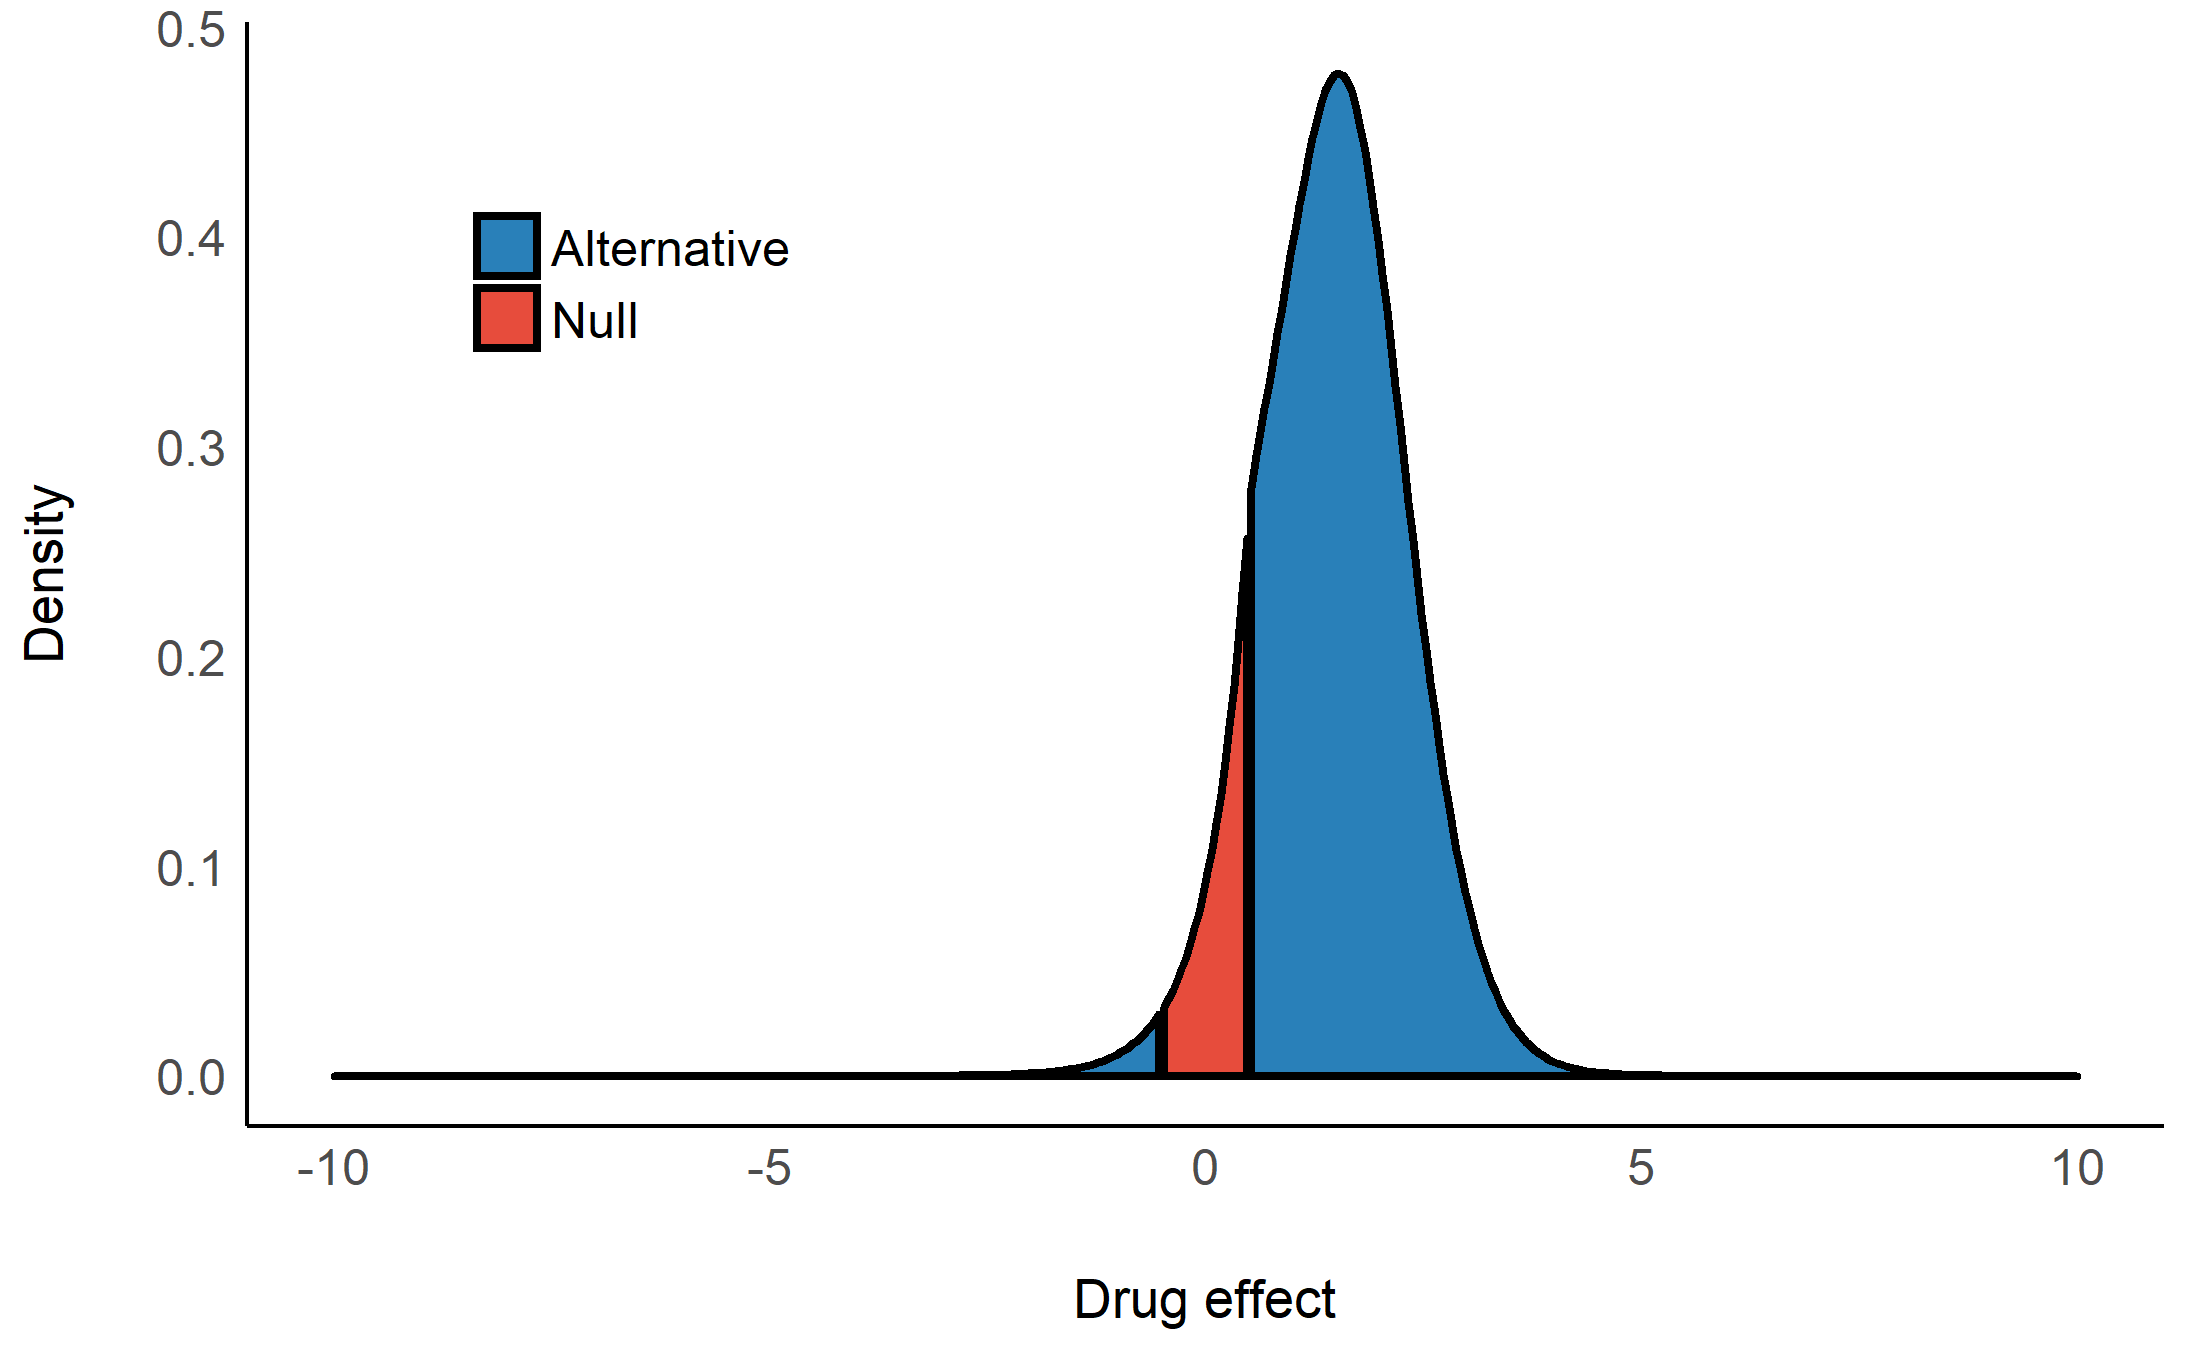
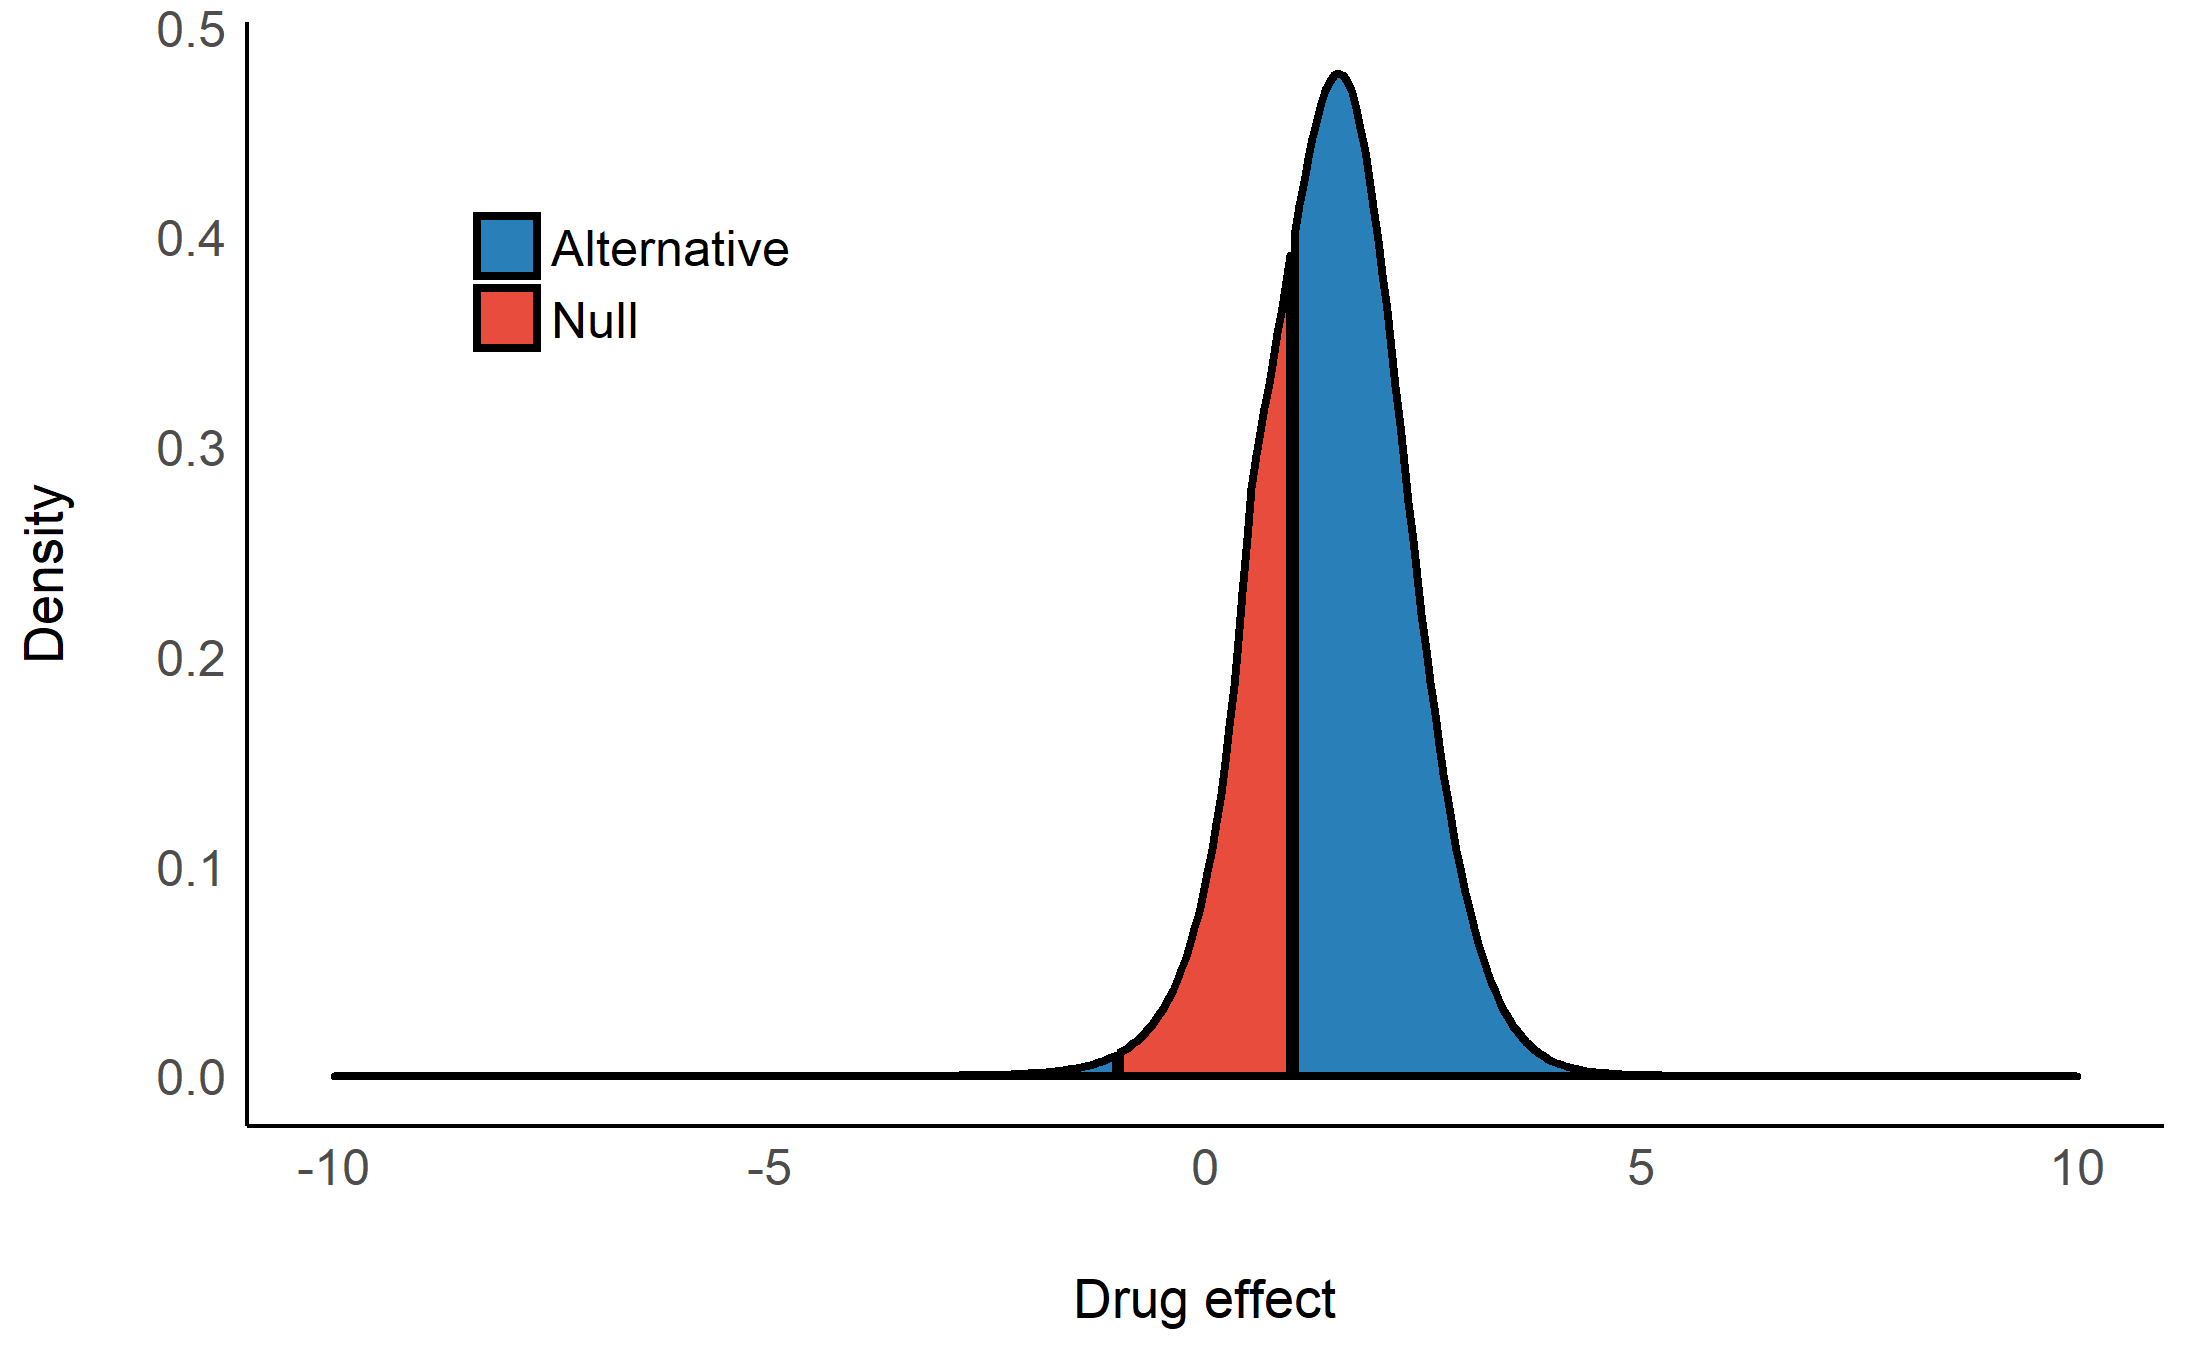
fix plot

Changed region(s): [[0.5286, 0.2176, 0.6219, 0.8083], [0.4975, 0.7772, 0.5286, 0.8083]]

diff --git a/docs/articles/bayes_factors.html b/docs/articles/bayes_factors.html
@@ -205,7 +205,7 @@ Bayesian analysis of the Students’ (1908) Sleep data set.
 \]</span></p>
 <p>Given our prior has a normal distribution centered at 0 hours with a scale (an SD) of 2.5 hours, our priors would look like this:</p>
 <p><img src="bayes_factors_files/figure-html/unnamed-chunk-2-1.png" width="1093.75"></p>
-<p>and the prior odds would be 5.3.</p>
+<p>and the prior odds would be 2.2.</p>
 <p>By looking at the posterior distribution, can now compute the posterior probability of the drug’s effect falling <em>within the null-region</em>, and the posterior probability of the drug’s effect falling <em>outside the null-region</em> to get our <em>posterior odds</em>:</p>
 <p><span class="math display">\[
 \frac
@@ -213,7 +213,7 @@ Bayesian analysis of the Students’ (1908) Sleep data set.
 {P(b_{drug} \notin [-1,1] | Data)}
 \]</span></p>
 <p><img src="bayes_factors_files/figure-html/rstanarm_fit-1.png" width="1093.75"></p>
-<p>We can see that the center of the posterior distribution has shifted away from 0 (to ~1.5). Likewise, the posterior odds are 4.8 - which seems to favor <strong>the effect being non-null</strong>, but… <em>does this mean the data support the alternative over the null?</em> Hard to say, since even before the data were observed, the priors already favored the alternative - so we need to take our priors into account here!</p>
+<p>We can see that the center of the posterior distribution has shifted away from 0 (to ~1.5). Likewise, the posterior odds are 2.0 - which seems to favor <strong>the effect being non-null</strong>, but… <em>does this mean the data support the alternative over the null?</em> Hard to say, since even before the data were observed, the priors already favored the alternative - so we need to take our priors into account here!</p>
 <p>Let’s compute the Bayes factor as the change from the prior odds to the posterior odds: <span class="math inline">\(BF_{10} = Odds_{posterior} / Odds_{prior} = 0.90\)</span>! This BF indicates that the data provide 1/0.90 = 1.11 times more evidence for the effect of the drug being practically nothing than it does for the drug having some clinically significant effect. Thus, although the center of distribution has shifted away from 0, and the posterior distribution seems to favor a non-null effect of the drug, it seems that given the observed data, the probability mass has <em>overall</em> shifted closer to the null interval, making the values in the null interval more probable! <span class="citation">(see <em>Non-overlapping Hypotheses</em> in Morey &amp; Rouder, 2011)</span></p>
 <p>Note that <strong>interpretation guides</strong> for Bayes factors can be found <a href="https://easystats.github.io/report/articles/interpret_metrics.html#bayes-factor-bf"><strong>here</strong></a>. All of this can be achieved with the function <code><a href="../reference/bayesfactor_parameters.html">bayesfactor_parameters()</a></code>, which computes a Bayes factor for each of the model’s parameters:</p>
 <div class="sourceCode" id="cb2"><pre class="sourceCode r"><code class="sourceCode r"><a class="sourceLine" id="cb2-1" title="1">My_first_BF &lt;-<span class="st"> </span><span class="kw"><a href="../reference/bayesfactor_parameters.html">bayesfactor_parameters</a></span>(model, <span class="dt">null =</span> <span class="kw"><a href="https://rdrr.io/r/base/c.html">c</a></span>(<span class="op">-</span><span class="dv">1</span>, <span class="dv">1</span>))</a>
@@ -582,8 +582,8 @@ BF_{restricted / NULL} = \frac
 &gt;           am [-0.93,  5.84]
 &gt;         carb [-2.01, -0.32]</code></pre>
 <p>How can this be? By estimating the HDI of the effect for <code>carb</code> in the full model, we are acting under the assumption that that model is correct. However, as we’ve just seen, both models are practically tied, and in fact it was the no-<code>carb</code> model, in which the effect for <code>carb</code> is fixed at 0, that was slightly more supported by the data. If this is the case <strong>why limit our estimation of the effect just to one model?</strong> <span class="citation">(Bergh, Haaf, Ly, Rouder, &amp; Wagenmakers, 2019)</span>.</p>
-<p>Using Bayesian model averaging, we can combine the posteriors samples from several models, weighted by the models’ marginal likelihood (done via the <code><a href="../reference/bayesfactor_models.html">bayesfactor_models()</a></code> function). If some parameter is part of some of the models but is missing from others, it is assumed to be fixed a 0 (which can also be seen as a method of applying shrinkage to our estimates). This results in a posterior distribution across several models, which we can now treat like any posterior distribution, and estimate the HDI. We can do this with the <code><a href="../reference/weighted_posteriors.html">weighted_posteriors()</a></code> function:</p>
-<div class="sourceCode" id="cb43"><pre class="sourceCode r"><code class="sourceCode r"><a class="sourceLine" id="cb43-1" title="1">BMA_draws &lt;-<span class="st"> </span><span class="kw"><a href="../reference/weighted_posteriors.html">weighted_posteriors</a></span>(mod, mod_carb)</a>
+<p>Using Bayesian model averaging, we can combine the posteriors samples from several models, weighted by the models’ marginal likelihood (done via the <code><a href="../reference/bayesfactor_models.html">bayesfactor_models()</a></code> function). If some parameter is part of some of the models but is missing from others, it is assumed to be fixed a 0 (which can also be seen as a method of applying shrinkage to our estimates). This results in a posterior distribution across several models, which we can now treat like any posterior distribution, and estimate the HDI. We can do this with the <code>weighted_posteriors()</code> function:</p>
+<div class="sourceCode" id="cb43"><pre class="sourceCode r"><code class="sourceCode r"><a class="sourceLine" id="cb43-1" title="1">BMA_draws &lt;-<span class="st"> </span><span class="kw">weighted_posteriors</span>(mod, mod_carb)</a>
 <a class="sourceLine" id="cb43-2" title="2"></a>
 <a class="sourceLine" id="cb43-3" title="3">BMA_hdi &lt;-<span class="st"> </span><span class="kw"><a href="../reference/hdi.html">hdi</a></span>(BMA_draws, <span class="dt">ci =</span> <span class="fl">.95</span>)</a>
 <a class="sourceLine" id="cb43-4" title="4">BMA_hdi</a></code></pre></div>
@@ -738,8 +738,13 @@ This is caused by an inherent bias in the priors introduced by the <em>effects</
 &gt;      4.94
 &gt; 
 &gt; * Bayes factors for the restricted model vs. the un-restricted model.</code></pre>
-<p><strong><em>What happened???</em></strong><br>
-1. The comparison of 2 levels all have a prior of ~0.5, as expected. 2. The comparison of 3 levels has different priors, depending on the order restriction - i.e. <strong>some orders are <em>a priori</em> more likely than others!!!</strong></p>
+<p><strong><em>What happened???</em></strong></p>
+<ol style="list-style-type: decimal">
+<li>The comparison of 2 levels all have a prior of ~0.5, as expected.<br>
+</li>
+<li>The comparison of 3 levels has different priors, depending on the order restriction - i.e. <strong>some orders are <em>a priori</em> more likely than others!!!</strong>
+</li>
+</ol>
 <p>Again, this is solved by using the <em>orthonormal</em> factor coding (from above).</p>
 <div class="sourceCode" id="cb61"><pre class="sourceCode r"><code class="sourceCode r"><a class="sourceLine" id="cb61-1" title="1"><span class="kw"><a href="https://rdrr.io/r/stats/contrasts.html">contrasts</a></span>(iris<span class="op">$</span>Species) &lt;-<span class="st"> </span>contr.bayes</a>
 <a class="sourceLine" id="cb61-2" title="2"></a>
